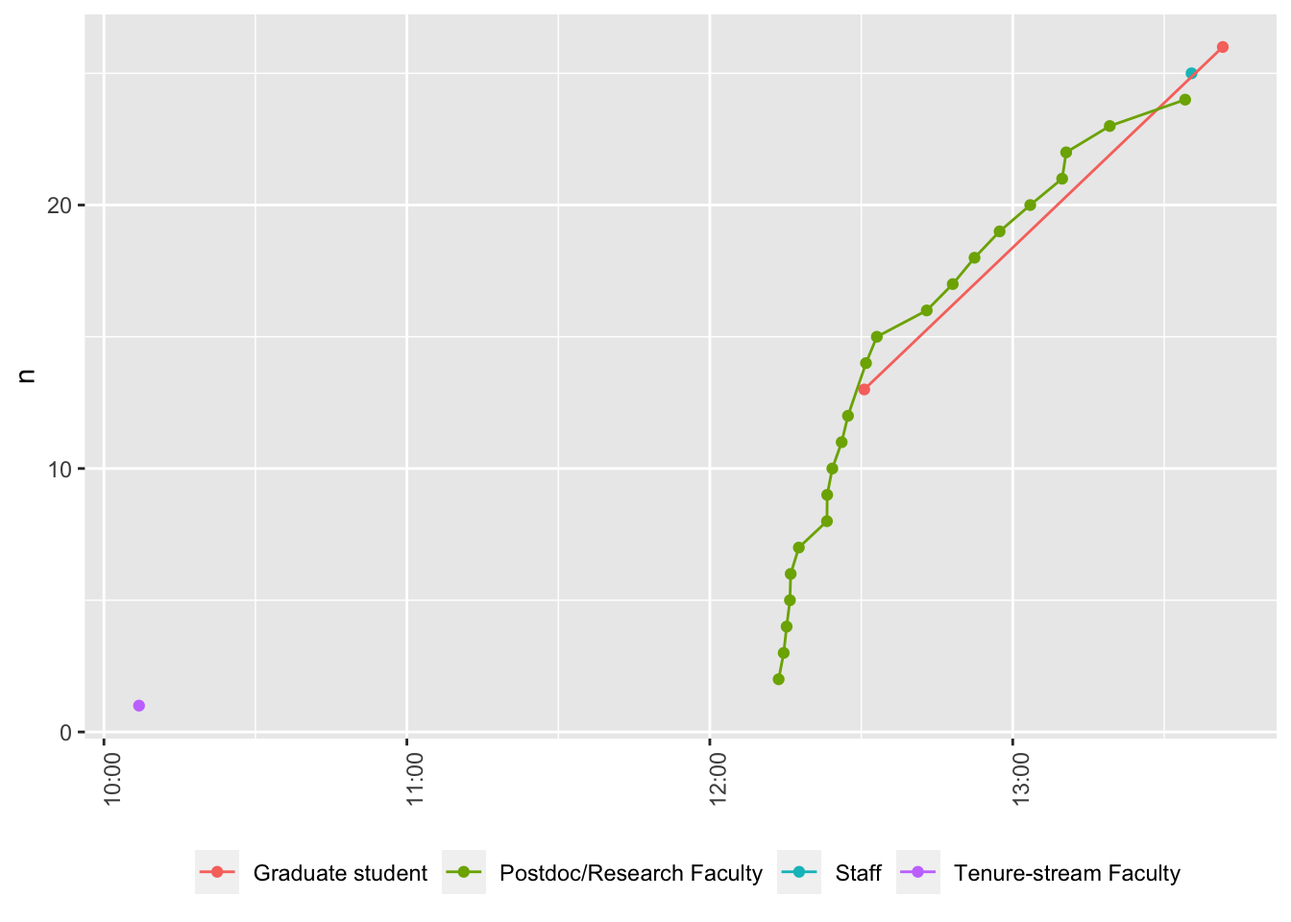
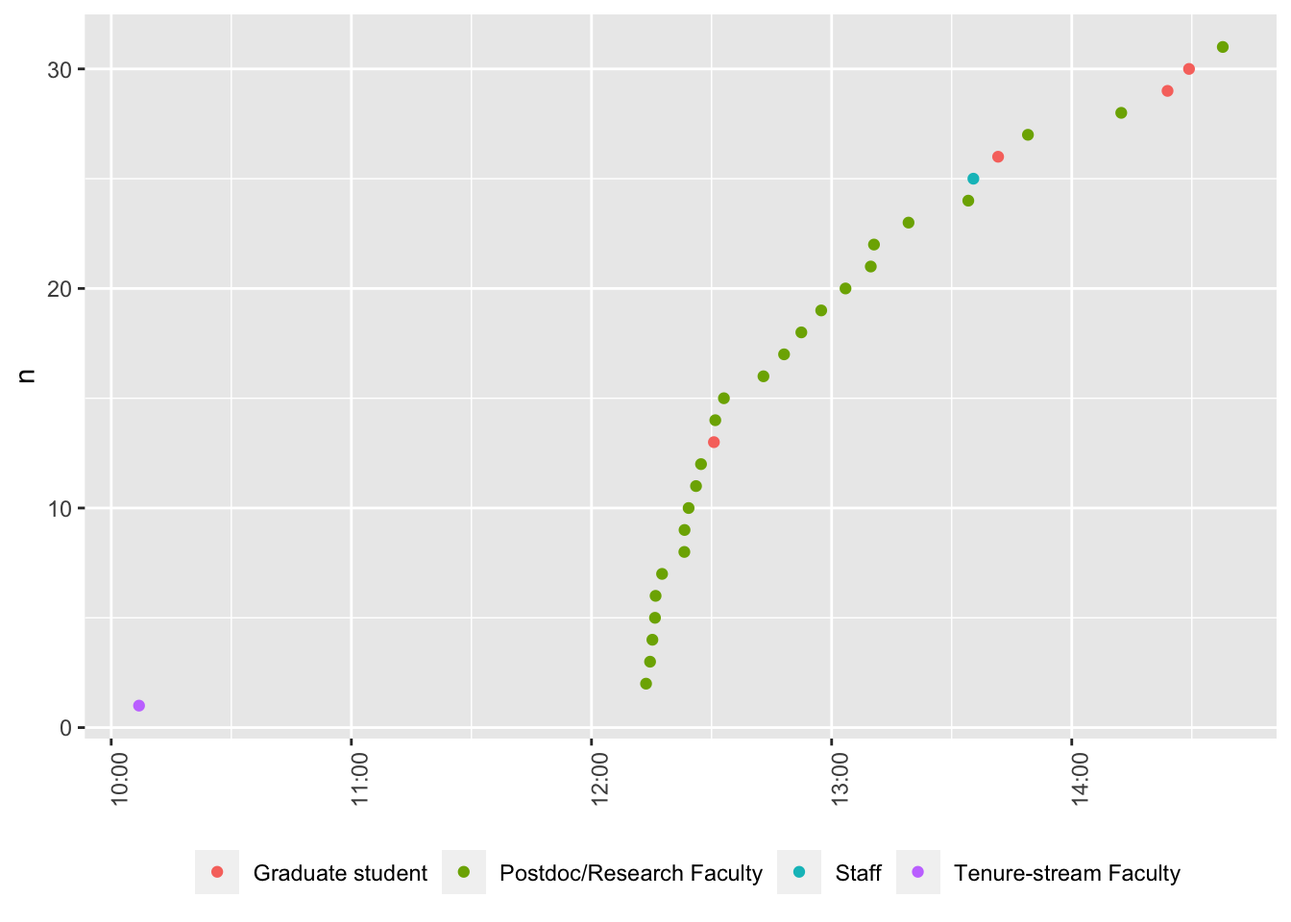
Clean unit and add college.

diff --git a/docs/resources.html b/docs/resources.html
@@ -179,9 +179,6 @@ pre > code.sourceCode > span > a:first-child::before { text-decoration: underlin
 <span id="cb1-19"><a href="#cb1-19" aria-hidden="true" tabindex="-1"></a>  <span class="fu">message</span>(<span class="st">"Using stored data."</span>)</span>
 <span id="cb1-20"><a href="#cb1-20" aria-hidden="true" tabindex="-1"></a>}</span></code><button title="Copy to Clipboard" class="code-copy-button"><i class="bi"></i></button></pre></div>
 <div class="cell-output cell-output-stderr">
-<pre><code>Auto-refreshing stale OAuth token.</code></pre>
-</div>
-<div class="cell-output cell-output-stderr">
 <pre><code>File downloaded:</code></pre>
 </div>
 <div class="cell-output cell-output-stderr">
@@ -199,38 +196,101 @@ pre > code.sourceCode > span > a:first-child::before { text-decoration: underlin
 </div>
 </div>
 <div class="cell">
-<div class="sourceCode cell-code" id="cb8"><pre class="sourceCode r code-with-copy"><code class="sourceCode r"><span id="cb8-1"><a href="#cb8-1" aria-hidden="true" tabindex="-1"></a>registrations <span class="ot">&lt;-</span></span>
-<span id="cb8-2"><a href="#cb8-2" aria-hidden="true" tabindex="-1"></a>  readr<span class="sc">::</span><span class="fu">read_csv</span>(<span class="st">"csv/data-mgmt-wksp.csv"</span>, <span class="at">show_col_types =</span> <span class="cn">FALSE</span>)</span>
-<span id="cb8-3"><a href="#cb8-3" aria-hidden="true" tabindex="-1"></a>registrations_clean <span class="ot">&lt;-</span> registrations <span class="sc">|&gt;</span></span>
-<span id="cb8-4"><a href="#cb8-4" aria-hidden="true" tabindex="-1"></a>  dplyr<span class="sc">::</span><span class="fu">rename</span>(</span>
-<span id="cb8-5"><a href="#cb8-5" aria-hidden="true" tabindex="-1"></a>    <span class="at">timestamp =</span> <span class="st">"Timestamp"</span>,</span>
-<span id="cb8-6"><a href="#cb8-6" aria-hidden="true" tabindex="-1"></a>    <span class="at">email =</span> <span class="st">'Email Address'</span>,</span>
-<span id="cb8-7"><a href="#cb8-7" aria-hidden="true" tabindex="-1"></a>    <span class="at">attend =</span> <span class="st">"Will you attend the workshop on Wednesday, March 27, 2024?"</span>,</span>
-<span id="cb8-8"><a href="#cb8-8" aria-hidden="true" tabindex="-1"></a>    <span class="at">name =</span> <span class="st">"What is your name?"</span>,</span>
-<span id="cb8-9"><a href="#cb8-9" aria-hidden="true" tabindex="-1"></a>    <span class="at">unit =</span> <span class="st">"What is your department or unit?"</span>,</span>
-<span id="cb8-10"><a href="#cb8-10" aria-hidden="true" tabindex="-1"></a>    <span class="at">position =</span> <span class="st">"What is your current position?"</span>,</span>
-<span id="cb8-11"><a href="#cb8-11" aria-hidden="true" tabindex="-1"></a>    <span class="at">have_case_study =</span> <span class="st">"Do you have a project or dataset that you would like to have considered for a hands-on case study?"</span>,</span>
-<span id="cb8-12"><a href="#cb8-12" aria-hidden="true" tabindex="-1"></a>    <span class="at">case_study_details =</span> <span class="st">"If yes, in a sentence or two, please describe your project or dataset."</span>,</span>
-<span id="cb8-13"><a href="#cb8-13" aria-hidden="true" tabindex="-1"></a>    <span class="at">comments =</span> <span class="st">"Any comments?"</span></span>
-<span id="cb8-14"><a href="#cb8-14" aria-hidden="true" tabindex="-1"></a>  )</span></code><button title="Copy to Clipboard" class="code-copy-button"><i class="bi"></i></button></pre></div>
+<div class="sourceCode cell-code" id="cb7"><pre class="sourceCode r code-with-copy"><code class="sourceCode r"><span id="cb7-1"><a href="#cb7-1" aria-hidden="true" tabindex="-1"></a>registrations <span class="ot">&lt;-</span></span>
+<span id="cb7-2"><a href="#cb7-2" aria-hidden="true" tabindex="-1"></a>  readr<span class="sc">::</span><span class="fu">read_csv</span>(<span class="st">"csv/data-mgmt-wksp.csv"</span>, <span class="at">show_col_types =</span> <span class="cn">FALSE</span>)</span>
+<span id="cb7-3"><a href="#cb7-3" aria-hidden="true" tabindex="-1"></a></span>
+<span id="cb7-4"><a href="#cb7-4" aria-hidden="true" tabindex="-1"></a>registrations_clean <span class="ot">&lt;-</span> registrations <span class="sc">|&gt;</span></span>
+<span id="cb7-5"><a href="#cb7-5" aria-hidden="true" tabindex="-1"></a>  dplyr<span class="sc">::</span><span class="fu">rename</span>(</span>
+<span id="cb7-6"><a href="#cb7-6" aria-hidden="true" tabindex="-1"></a>    <span class="at">timestamp =</span> <span class="st">"Timestamp"</span>,</span>
+<span id="cb7-7"><a href="#cb7-7" aria-hidden="true" tabindex="-1"></a>    <span class="at">email =</span> <span class="st">'Email Address'</span>,</span>
+<span id="cb7-8"><a href="#cb7-8" aria-hidden="true" tabindex="-1"></a>    <span class="at">attend =</span> <span class="st">"Will you attend the workshop on Wednesday, March 27, 2024?"</span>,</span>
+<span id="cb7-9"><a href="#cb7-9" aria-hidden="true" tabindex="-1"></a>    <span class="at">name =</span> <span class="st">"What is your name?"</span>,</span>
+<span id="cb7-10"><a href="#cb7-10" aria-hidden="true" tabindex="-1"></a>    <span class="at">unit =</span> <span class="st">"What is your department or unit?"</span>,</span>
+<span id="cb7-11"><a href="#cb7-11" aria-hidden="true" tabindex="-1"></a>    <span class="at">position =</span> <span class="st">"What is your current position?"</span>,</span>
+<span id="cb7-12"><a href="#cb7-12" aria-hidden="true" tabindex="-1"></a>    <span class="at">have_case_study =</span> <span class="st">"Do you have a project or dataset that you would like to have considered for a hands-on case study?"</span>,</span>
+<span id="cb7-13"><a href="#cb7-13" aria-hidden="true" tabindex="-1"></a>    <span class="at">case_study_details =</span> <span class="st">"If yes, in a sentence or two, please describe your project or dataset."</span>,</span>
+<span id="cb7-14"><a href="#cb7-14" aria-hidden="true" tabindex="-1"></a>    <span class="at">comments =</span> <span class="st">"Any comments?"</span></span>
+<span id="cb7-15"><a href="#cb7-15" aria-hidden="true" tabindex="-1"></a>  ) <span class="sc">|&gt;</span></span>
+<span id="cb7-16"><a href="#cb7-16" aria-hidden="true" tabindex="-1"></a>  <span class="co"># Remove duplicate rows</span></span>
+<span id="cb7-17"><a href="#cb7-17" aria-hidden="true" tabindex="-1"></a>  dplyr<span class="sc">::</span><span class="fu">distinct</span>() <span class="sc">|&gt;</span></span>
+<span id="cb7-18"><a href="#cb7-18" aria-hidden="true" tabindex="-1"></a>  <span class="co"># Convert timestamp into proper dates</span></span>
+<span id="cb7-19"><a href="#cb7-19" aria-hidden="true" tabindex="-1"></a>  dplyr<span class="sc">::</span><span class="fu">mutate</span>(<span class="at">timestamp =</span> lubridate<span class="sc">::</span><span class="fu">mdy_hms</span>(timestamp,</span>
+<span id="cb7-20"><a href="#cb7-20" aria-hidden="true" tabindex="-1"></a>                                               <span class="at">tz =</span> <span class="st">"America/New_York"</span>)) <span class="sc">|&gt;</span></span>
+<span id="cb7-21"><a href="#cb7-21" aria-hidden="true" tabindex="-1"></a>  <span class="co"># Normalize names</span></span>
+<span id="cb7-22"><a href="#cb7-22" aria-hidden="true" tabindex="-1"></a>  dplyr<span class="sc">::</span><span class="fu">mutate</span>(</span>
+<span id="cb7-23"><a href="#cb7-23" aria-hidden="true" tabindex="-1"></a>    <span class="at">unit =</span> dplyr<span class="sc">::</span><span class="fu">recode</span>(</span>
+<span id="cb7-24"><a href="#cb7-24" aria-hidden="true" tabindex="-1"></a>      unit,</span>
+<span id="cb7-25"><a href="#cb7-25" aria-hidden="true" tabindex="-1"></a>      <span class="st">`</span><span class="at">ESM-Ecosystem Science and Mgmt</span><span class="st">`</span> <span class="ot">=</span> <span class="st">"Ecosystem Science &amp; Mgmt"</span>,</span>
+<span id="cb7-26"><a href="#cb7-26" aria-hidden="true" tabindex="-1"></a>      <span class="st">`</span><span class="at">Earth and Environmental Systems Institute</span><span class="st">`</span> <span class="ot">=</span> <span class="st">"Earth &amp; Environmental Systems Institute"</span>,</span>
+<span id="cb7-27"><a href="#cb7-27" aria-hidden="true" tabindex="-1"></a>      <span class="st">`</span><span class="at">Earth and Environmental Systems Institute</span><span class="st">`</span> <span class="ot">=</span> <span class="st">"Earth &amp; Environmental Systems Institute"</span>,</span>
+<span id="cb7-28"><a href="#cb7-28" aria-hidden="true" tabindex="-1"></a>      <span class="st">`</span><span class="at">FOOD SCIENCE</span><span class="st">`</span> <span class="ot">=</span> <span class="st">"Food Science"</span>,</span>
+<span id="cb7-29"><a href="#cb7-29" aria-hidden="true" tabindex="-1"></a>      <span class="st">`</span><span class="at">Earth and Mineral Sciences, Energy Institute</span><span class="st">`</span> <span class="ot">=</span> <span class="st">"Energy Institute"</span>,</span>
+<span id="cb7-30"><a href="#cb7-30" aria-hidden="true" tabindex="-1"></a>      <span class="st">`</span><span class="at">Center for Healthy Aging / HHD</span><span class="st">`</span> <span class="ot">=</span> <span class="st">"Center for Healthy Aging"</span>,</span>
+<span id="cb7-31"><a href="#cb7-31" aria-hidden="true" tabindex="-1"></a>      <span class="st">`</span><span class="at">BMB</span><span class="st">`</span> <span class="ot">=</span> <span class="st">"Biochemistry &amp; Molecular Biology"</span></span>
+<span id="cb7-32"><a href="#cb7-32" aria-hidden="true" tabindex="-1"></a>    )</span>
+<span id="cb7-33"><a href="#cb7-33" aria-hidden="true" tabindex="-1"></a>  ) <span class="sc">|&gt;</span></span>
+<span id="cb7-34"><a href="#cb7-34" aria-hidden="true" tabindex="-1"></a>  <span class="co"># Add college</span></span>
+<span id="cb7-35"><a href="#cb7-35" aria-hidden="true" tabindex="-1"></a>  dplyr<span class="sc">::</span><span class="fu">mutate</span>(</span>
+<span id="cb7-36"><a href="#cb7-36" aria-hidden="true" tabindex="-1"></a>    <span class="at">college =</span> dplyr<span class="sc">::</span><span class="fu">case_match</span>(</span>
+<span id="cb7-37"><a href="#cb7-37" aria-hidden="true" tabindex="-1"></a>      unit,</span>
+<span id="cb7-38"><a href="#cb7-38" aria-hidden="true" tabindex="-1"></a>      <span class="st">"Statistics"</span> <span class="sc">~</span> <span class="st">"ECoS"</span>,</span>
+<span id="cb7-39"><a href="#cb7-39" aria-hidden="true" tabindex="-1"></a>      <span class="st">"Biology"</span> <span class="sc">~</span> <span class="st">"ECoS"</span>,</span>
+<span id="cb7-40"><a href="#cb7-40" aria-hidden="true" tabindex="-1"></a>      <span class="st">"Biochemistry &amp; Molecular Biology"</span> <span class="sc">~</span> <span class="st">"ECoS"</span>,</span>
+<span id="cb7-41"><a href="#cb7-41" aria-hidden="true" tabindex="-1"></a>      <span class="st">"Physics"</span> <span class="sc">~</span> <span class="st">"ECoS"</span>,</span>
+<span id="cb7-42"><a href="#cb7-42" aria-hidden="true" tabindex="-1"></a>      <span class="st">"Chemistry"</span> <span class="sc">~</span> <span class="st">"ECoS"</span>,</span>
+<span id="cb7-43"><a href="#cb7-43" aria-hidden="true" tabindex="-1"></a>      <span class="st">"Psychology"</span> <span class="sc">~</span> <span class="st">"CLA"</span>,</span>
+<span id="cb7-44"><a href="#cb7-44" aria-hidden="true" tabindex="-1"></a>      <span class="st">"Spanish, Italian, &amp; Portuguese"</span> <span class="sc">~</span> <span class="st">"CLA"</span>,</span>
+<span id="cb7-45"><a href="#cb7-45" aria-hidden="true" tabindex="-1"></a>      <span class="st">"Research Informatics and Publishing"</span> <span class="sc">~</span> <span class="st">"Libraries"</span>,</span>
+<span id="cb7-46"><a href="#cb7-46" aria-hidden="true" tabindex="-1"></a>      <span class="st">"Political Science"</span> <span class="sc">~</span> <span class="st">"CLA"</span>,</span>
+<span id="cb7-47"><a href="#cb7-47" aria-hidden="true" tabindex="-1"></a>      <span class="st">"Applied Linguistics"</span> <span class="sc">~</span> <span class="st">"CLA"</span>,</span>
+<span id="cb7-48"><a href="#cb7-48" aria-hidden="true" tabindex="-1"></a>      <span class="st">"Global Languages &amp; Literatures"</span> <span class="sc">~</span> <span class="st">"CLA"</span>,</span>
+<span id="cb7-49"><a href="#cb7-49" aria-hidden="true" tabindex="-1"></a>      <span class="st">"Sociology"</span> <span class="sc">~</span> <span class="st">"CLA"</span>,</span>
+<span id="cb7-50"><a href="#cb7-50" aria-hidden="true" tabindex="-1"></a>      <span class="st">"English"</span> <span class="sc">~</span> <span class="st">"CLA"</span>,</span>
+<span id="cb7-51"><a href="#cb7-51" aria-hidden="true" tabindex="-1"></a>      <span class="st">"C-SoDA"</span> <span class="sc">~</span> <span class="st">"CLA"</span>,</span>
+<span id="cb7-52"><a href="#cb7-52" aria-hidden="true" tabindex="-1"></a>      <span class="st">"Office of Digital Pedagogies and Initiatives"</span> <span class="sc">~</span> <span class="st">"CLA"</span>,</span>
+<span id="cb7-53"><a href="#cb7-53" aria-hidden="true" tabindex="-1"></a>      <span class="st">"Asian Studies"</span> <span class="sc">~</span> <span class="st">"CLA"</span>,</span>
+<span id="cb7-54"><a href="#cb7-54" aria-hidden="true" tabindex="-1"></a>      <span class="st">"IST"</span> <span class="sc">~</span> <span class="st">"IST"</span>,</span>
+<span id="cb7-55"><a href="#cb7-55" aria-hidden="true" tabindex="-1"></a>      <span class="st">"Anthropology"</span> <span class="sc">~</span> <span class="st">"CLA"</span>,</span>
+<span id="cb7-56"><a href="#cb7-56" aria-hidden="true" tabindex="-1"></a>      <span class="st">"Chemical Engineering"</span> <span class="sc">~</span> <span class="st">"Engineering"</span>,</span>
+<span id="cb7-57"><a href="#cb7-57" aria-hidden="true" tabindex="-1"></a>      <span class="st">"Civil and Environmental Engineering"</span> <span class="sc">~</span> <span class="st">"Engineering"</span>,</span>
+<span id="cb7-58"><a href="#cb7-58" aria-hidden="true" tabindex="-1"></a>      <span class="st">"Material Science and Engineering"</span> <span class="sc">~</span> <span class="st">"Engineering"</span>,</span>
+<span id="cb7-59"><a href="#cb7-59" aria-hidden="true" tabindex="-1"></a>      <span class="st">"Engineering Science &amp; Mechanics"</span> <span class="sc">~</span> <span class="st">"Engineering"</span>,</span>
+<span id="cb7-60"><a href="#cb7-60" aria-hidden="true" tabindex="-1"></a>      <span class="st">"Biomedical Engineering"</span> <span class="sc">~</span> <span class="st">"Engineering"</span>,</span>
+<span id="cb7-61"><a href="#cb7-61" aria-hidden="true" tabindex="-1"></a>      <span class="st">"Nutritional Sciences"</span> <span class="sc">~</span> <span class="st">"HHD"</span>,</span>
+<span id="cb7-62"><a href="#cb7-62" aria-hidden="true" tabindex="-1"></a>      <span class="st">"HDFS"</span> <span class="sc">~</span> <span class="st">"HHD"</span>,</span>
+<span id="cb7-63"><a href="#cb7-63" aria-hidden="true" tabindex="-1"></a>      <span class="st">"Kinesiology"</span> <span class="sc">~</span> <span class="st">"HHD"</span>,</span>
+<span id="cb7-64"><a href="#cb7-64" aria-hidden="true" tabindex="-1"></a>      <span class="st">"Recreation, Park, &amp; Tourism Management"</span> <span class="sc">~</span> <span class="st">"HHD"</span>,</span>
+<span id="cb7-65"><a href="#cb7-65" aria-hidden="true" tabindex="-1"></a>      <span class="st">"Bellisario College of Communication"</span> <span class="sc">~</span> <span class="st">"Comm"</span>,</span>
+<span id="cb7-66"><a href="#cb7-66" aria-hidden="true" tabindex="-1"></a>      <span class="st">"Marketing"</span> <span class="sc">~</span> <span class="st">"Smeal"</span>,</span>
+<span id="cb7-67"><a href="#cb7-67" aria-hidden="true" tabindex="-1"></a>      <span class="st">"Food Science"</span> <span class="sc">~</span> <span class="st">"Ag"</span>,</span>
+<span id="cb7-68"><a href="#cb7-68" aria-hidden="true" tabindex="-1"></a>      <span class="st">"Ecosystem Science &amp; Mgmt"</span> <span class="sc">~</span> <span class="st">"Ag"</span>,</span>
+<span id="cb7-69"><a href="#cb7-69" aria-hidden="true" tabindex="-1"></a>      <span class="st">"Entomology"</span> <span class="sc">~</span> <span class="st">"Ag"</span>,</span>
+<span id="cb7-70"><a href="#cb7-70" aria-hidden="true" tabindex="-1"></a>      <span class="st">"Neuroscience"</span> <span class="sc">~</span> <span class="st">"Med"</span>,</span>
+<span id="cb7-71"><a href="#cb7-71" aria-hidden="true" tabindex="-1"></a>      <span class="st">"College of Human and Health Development"</span> <span class="sc">~</span> <span class="st">"HHD"</span>,</span>
+<span id="cb7-72"><a href="#cb7-72" aria-hidden="true" tabindex="-1"></a>      <span class="st">"Center for Healthy Aging"</span> <span class="sc">~</span> <span class="st">"HHD"</span>,</span>
+<span id="cb7-73"><a href="#cb7-73" aria-hidden="true" tabindex="-1"></a>      <span class="st">"Earth &amp; Environmental Systems Institute"</span> <span class="sc">~</span> <span class="st">"EMS"</span>,</span>
+<span id="cb7-74"><a href="#cb7-74" aria-hidden="true" tabindex="-1"></a>      <span class="st">"Energy Institute"</span> <span class="sc">~</span> <span class="st">"EMS"</span>,</span>
+<span id="cb7-75"><a href="#cb7-75" aria-hidden="true" tabindex="-1"></a>      <span class="st">"Nursing"</span> <span class="sc">~</span> <span class="st">"Nursing"</span></span>
+<span id="cb7-76"><a href="#cb7-76" aria-hidden="true" tabindex="-1"></a>    ),</span>
+<span id="cb7-77"><a href="#cb7-77" aria-hidden="true" tabindex="-1"></a>    <span class="at">.default =</span> <span class="st">"Unknown"</span>,</span>
+<span id="cb7-78"><a href="#cb7-78" aria-hidden="true" tabindex="-1"></a>    <span class="at">.missing =</span> <span class="st">"Unknown"</span></span>
+<span id="cb7-79"><a href="#cb7-79" aria-hidden="true" tabindex="-1"></a>  )</span></code><button title="Copy to Clipboard" class="code-copy-button"><i class="bi"></i></button></pre></div>
 </div>
 <section id="time-series" class="level3">
 <h3 class="anchored" data-anchor-id="time-series">Time series</h3>
 <div class="cell">
-<div class="sourceCode cell-code" id="cb9"><pre class="sourceCode r code-with-copy"><code class="sourceCode r"><span id="cb9-1"><a href="#cb9-1" aria-hidden="true" tabindex="-1"></a><span class="fu">library</span>(ggplot2)</span>
-<span id="cb9-2"><a href="#cb9-2" aria-hidden="true" tabindex="-1"></a></span>
-<span id="cb9-3"><a href="#cb9-3" aria-hidden="true" tabindex="-1"></a>registrations_clean <span class="sc">|&gt;</span></span>
-<span id="cb9-4"><a href="#cb9-4" aria-hidden="true" tabindex="-1"></a>  dplyr<span class="sc">::</span><span class="fu">mutate</span>(<span class="at">timestamp =</span> lubridate<span class="sc">::</span><span class="fu">mdy_hms</span>(timestamp, </span>
-<span id="cb9-5"><a href="#cb9-5" aria-hidden="true" tabindex="-1"></a>                                               <span class="at">tz =</span> <span class="st">"America/New_York"</span>)) <span class="sc">|&gt;</span></span>
-<span id="cb9-6"><a href="#cb9-6" aria-hidden="true" tabindex="-1"></a>  dplyr<span class="sc">::</span><span class="fu">arrange</span>(timestamp) <span class="sc">|&gt;</span></span>
-<span id="cb9-7"><a href="#cb9-7" aria-hidden="true" tabindex="-1"></a>  dplyr<span class="sc">::</span><span class="fu">mutate</span>(<span class="at">resp_index =</span> <span class="fu">seq_along</span>(timestamp)) <span class="sc">|&gt;</span></span>
-<span id="cb9-8"><a href="#cb9-8" aria-hidden="true" tabindex="-1"></a>  <span class="fu">ggplot</span>() <span class="sc">+</span></span>
-<span id="cb9-9"><a href="#cb9-9" aria-hidden="true" tabindex="-1"></a>  <span class="fu">aes</span>(<span class="at">x =</span> timestamp, <span class="at">y =</span> resp_index, <span class="at">color =</span> position) <span class="sc">+</span></span>
-<span id="cb9-10"><a href="#cb9-10" aria-hidden="true" tabindex="-1"></a>  <span class="fu">geom_point</span>() <span class="sc">+</span></span>
-<span id="cb9-11"><a href="#cb9-11" aria-hidden="true" tabindex="-1"></a>  <span class="fu">geom_line</span>() <span class="sc">+</span></span>
-<span id="cb9-12"><a href="#cb9-12" aria-hidden="true" tabindex="-1"></a>  <span class="fu">theme</span>(<span class="at">axis.text.x =</span> <span class="fu">element_text</span>(<span class="at">angle =</span> <span class="dv">90</span>)) <span class="sc">+</span></span>
-<span id="cb9-13"><a href="#cb9-13" aria-hidden="true" tabindex="-1"></a>  <span class="fu">labs</span>(<span class="at">x =</span> <span class="cn">NULL</span>, <span class="at">y =</span> <span class="st">'n'</span>) <span class="sc">+</span></span>
-<span id="cb9-14"><a href="#cb9-14" aria-hidden="true" tabindex="-1"></a>  <span class="fu">theme</span>(<span class="at">legend.position =</span> <span class="st">"bottom"</span>, <span class="at">legend.title =</span> <span class="fu">element_blank</span>())</span></code><button title="Copy to Clipboard" class="code-copy-button"><i class="bi"></i></button></pre></div>
+<div class="sourceCode cell-code" id="cb8"><pre class="sourceCode r code-with-copy"><code class="sourceCode r"><span id="cb8-1"><a href="#cb8-1" aria-hidden="true" tabindex="-1"></a><span class="fu">library</span>(ggplot2)</span>
+<span id="cb8-2"><a href="#cb8-2" aria-hidden="true" tabindex="-1"></a></span>
+<span id="cb8-3"><a href="#cb8-3" aria-hidden="true" tabindex="-1"></a>registrations_clean <span class="sc">|&gt;</span></span>
+<span id="cb8-4"><a href="#cb8-4" aria-hidden="true" tabindex="-1"></a>  dplyr<span class="sc">::</span><span class="fu">arrange</span>(timestamp) <span class="sc">|&gt;</span></span>
+<span id="cb8-5"><a href="#cb8-5" aria-hidden="true" tabindex="-1"></a>  dplyr<span class="sc">::</span><span class="fu">mutate</span>(<span class="at">resp_index =</span> <span class="fu">seq_along</span>(timestamp)) <span class="sc">|&gt;</span></span>
+<span id="cb8-6"><a href="#cb8-6" aria-hidden="true" tabindex="-1"></a>  <span class="fu">ggplot</span>() <span class="sc">+</span></span>
+<span id="cb8-7"><a href="#cb8-7" aria-hidden="true" tabindex="-1"></a>  <span class="fu">aes</span>(<span class="at">x =</span> timestamp, <span class="at">y =</span> resp_index, <span class="at">color =</span> position) <span class="sc">+</span></span>
+<span id="cb8-8"><a href="#cb8-8" aria-hidden="true" tabindex="-1"></a>  <span class="fu">geom_point</span>() <span class="sc">+</span></span>
+<span id="cb8-9"><a href="#cb8-9" aria-hidden="true" tabindex="-1"></a>  <span class="co"># geom_line(group = 1) +</span></span>
+<span id="cb8-10"><a href="#cb8-10" aria-hidden="true" tabindex="-1"></a>  <span class="fu">theme</span>(<span class="at">axis.text.x =</span> <span class="fu">element_text</span>(<span class="at">angle =</span> <span class="dv">90</span>)) <span class="sc">+</span></span>
+<span id="cb8-11"><a href="#cb8-11" aria-hidden="true" tabindex="-1"></a>  <span class="fu">labs</span>(<span class="at">x =</span> <span class="cn">NULL</span>, <span class="at">y =</span> <span class="st">'n'</span>) <span class="sc">+</span></span>
+<span id="cb8-12"><a href="#cb8-12" aria-hidden="true" tabindex="-1"></a>  <span class="fu">theme</span>(<span class="at">legend.position =</span> <span class="st">"bottom"</span>, <span class="at">legend.title =</span> <span class="fu">element_blank</span>())</span></code><button title="Copy to Clipboard" class="code-copy-button"><i class="bi"></i></button></pre></div>
 <div class="cell-output-display">
 <div id="fig-registration-time-series" class="quarto-figure quarto-figure-center anchored">
 <figure class="figure">
@@ -243,29 +303,38 @@ pre > code.sourceCode > span > a:first-child::before { text-decoration: underlin
 </section>
 <section id="unit" class="level3">
 <h3 class="anchored" data-anchor-id="unit">Unit</h3>
-<div class="callout callout-style-default callout-note callout-titled">
-<div class="callout-header d-flex align-content-center">
-<div class="callout-icon-container">
-<i class="callout-icon"></i>
+<div class="cell">
+<div class="sourceCode cell-code" id="cb9"><pre class="sourceCode r code-with-copy"><code class="sourceCode r"><span id="cb9-1"><a href="#cb9-1" aria-hidden="true" tabindex="-1"></a>registrations_clean <span class="sc">|&gt;</span></span>
+<span id="cb9-2"><a href="#cb9-2" aria-hidden="true" tabindex="-1"></a>  <span class="fu">ggplot</span>() <span class="sc">+</span></span>
+<span id="cb9-3"><a href="#cb9-3" aria-hidden="true" tabindex="-1"></a>  <span class="fu">aes</span>(<span class="at">x =</span> unit, <span class="at">fill =</span> unit, <span class="at">color =</span> unit) <span class="sc">+</span></span>
+<span id="cb9-4"><a href="#cb9-4" aria-hidden="true" tabindex="-1"></a>  <span class="fu">geom_bar</span>() <span class="sc">+</span></span>
+<span id="cb9-5"><a href="#cb9-5" aria-hidden="true" tabindex="-1"></a>  <span class="fu">theme</span>(<span class="at">axis.text.x =</span> <span class="fu">element_blank</span>()) <span class="sc">+</span></span>
+<span id="cb9-6"><a href="#cb9-6" aria-hidden="true" tabindex="-1"></a>  <span class="fu">theme</span>(<span class="at">legend.position =</span> <span class="st">"bottom"</span>, <span class="at">legend.title =</span> <span class="fu">element_blank</span>())</span></code><button title="Copy to Clipboard" class="code-copy-button"><i class="bi"></i></button></pre></div>
+<div class="cell-output-display">
+<p><img src="resources_files/figure-html/unnamed-chunk-3-1.png" class="img-fluid" width="672"></p>
 </div>
-<div class="callout-title-container flex-fill">
-Note
 </div>
-</div>
-<div class="callout-body-container callout-body">
-<p>Need to clean unit variables before plotting.</p>
+<div class="cell">
+<div class="sourceCode cell-code" id="cb10"><pre class="sourceCode r code-with-copy"><code class="sourceCode r"><span id="cb10-1"><a href="#cb10-1" aria-hidden="true" tabindex="-1"></a>registrations_clean <span class="sc">|&gt;</span></span>
+<span id="cb10-2"><a href="#cb10-2" aria-hidden="true" tabindex="-1"></a>  <span class="fu">ggplot</span>() <span class="sc">+</span></span>
+<span id="cb10-3"><a href="#cb10-3" aria-hidden="true" tabindex="-1"></a>  <span class="fu">aes</span>(<span class="at">x =</span> college, <span class="at">fill =</span> college, <span class="at">color =</span> college) <span class="sc">+</span></span>
+<span id="cb10-4"><a href="#cb10-4" aria-hidden="true" tabindex="-1"></a>  <span class="fu">geom_bar</span>() <span class="sc">+</span></span>
+<span id="cb10-5"><a href="#cb10-5" aria-hidden="true" tabindex="-1"></a>  <span class="fu">theme</span>(<span class="at">axis.text.x =</span> <span class="fu">element_blank</span>()) <span class="sc">+</span></span>
+<span id="cb10-6"><a href="#cb10-6" aria-hidden="true" tabindex="-1"></a>  <span class="fu">theme</span>(<span class="at">legend.position =</span> <span class="st">"bottom"</span>, <span class="at">legend.title =</span> <span class="fu">element_blank</span>())</span></code><button title="Copy to Clipboard" class="code-copy-button"><i class="bi"></i></button></pre></div>
+<div class="cell-output-display">
+<p><img src="resources_files/figure-html/unnamed-chunk-4-1.png" class="img-fluid" width="672"></p>
 </div>
 </div>
 </section>
 <section id="position" class="level3">
 <h3 class="anchored" data-anchor-id="position">Position</h3>
 <div class="cell">
-<div class="sourceCode cell-code" id="cb10"><pre class="sourceCode r code-with-copy"><code class="sourceCode r"><span id="cb10-1"><a href="#cb10-1" aria-hidden="true" tabindex="-1"></a>registrations_clean <span class="sc">|&gt;</span></span>
-<span id="cb10-2"><a href="#cb10-2" aria-hidden="true" tabindex="-1"></a>  <span class="fu">ggplot</span>() <span class="sc">+</span></span>
-<span id="cb10-3"><a href="#cb10-3" aria-hidden="true" tabindex="-1"></a>  <span class="fu">aes</span>(<span class="at">x =</span> position, <span class="at">fill =</span> position) <span class="sc">+</span></span>
-<span id="cb10-4"><a href="#cb10-4" aria-hidden="true" tabindex="-1"></a>  <span class="fu">geom_bar</span>() <span class="sc">+</span></span>
-<span id="cb10-5"><a href="#cb10-5" aria-hidden="true" tabindex="-1"></a>  <span class="fu">theme</span>(<span class="at">axis.text.x =</span> <span class="fu">element_blank</span>()) <span class="sc">+</span></span>
-<span id="cb10-6"><a href="#cb10-6" aria-hidden="true" tabindex="-1"></a>  <span class="fu">theme</span>(<span class="at">legend.position =</span> <span class="st">"bottom"</span>, <span class="at">legend.title =</span> <span class="fu">element_blank</span>())</span></code><button title="Copy to Clipboard" class="code-copy-button"><i class="bi"></i></button></pre></div>
+<div class="sourceCode cell-code" id="cb11"><pre class="sourceCode r code-with-copy"><code class="sourceCode r"><span id="cb11-1"><a href="#cb11-1" aria-hidden="true" tabindex="-1"></a>registrations_clean <span class="sc">|&gt;</span></span>
+<span id="cb11-2"><a href="#cb11-2" aria-hidden="true" tabindex="-1"></a>  <span class="fu">ggplot</span>() <span class="sc">+</span></span>
+<span id="cb11-3"><a href="#cb11-3" aria-hidden="true" tabindex="-1"></a>  <span class="fu">aes</span>(<span class="at">x =</span> position, <span class="at">fill =</span> position) <span class="sc">+</span></span>
+<span id="cb11-4"><a href="#cb11-4" aria-hidden="true" tabindex="-1"></a>  <span class="fu">geom_bar</span>() <span class="sc">+</span></span>
+<span id="cb11-5"><a href="#cb11-5" aria-hidden="true" tabindex="-1"></a>  <span class="fu">theme</span>(<span class="at">axis.text.x =</span> <span class="fu">element_blank</span>()) <span class="sc">+</span></span>
+<span id="cb11-6"><a href="#cb11-6" aria-hidden="true" tabindex="-1"></a>  <span class="fu">theme</span>(<span class="at">legend.position =</span> <span class="st">"bottom"</span>, <span class="at">legend.title =</span> <span class="fu">element_blank</span>())</span></code><button title="Copy to Clipboard" class="code-copy-button"><i class="bi"></i></button></pre></div>
 <div class="cell-output-display">
 <div id="fig-registrations-by-position" class="quarto-figure quarto-figure-center anchored">
 <figure class="figure">
@@ -279,10 +348,10 @@ Note
 <section id="case-study" class="level3">
 <h3 class="anchored" data-anchor-id="case-study">Case study</h3>
 <div class="cell">
-<div class="sourceCode cell-code" id="cb11"><pre class="sourceCode r code-with-copy"><code class="sourceCode r"><span id="cb11-1"><a href="#cb11-1" aria-hidden="true" tabindex="-1"></a>registrations_clean <span class="sc">|&gt;</span></span>
-<span id="cb11-2"><a href="#cb11-2" aria-hidden="true" tabindex="-1"></a>  <span class="fu">ggplot</span>() <span class="sc">+</span></span>
-<span id="cb11-3"><a href="#cb11-3" aria-hidden="true" tabindex="-1"></a>  <span class="fu">aes</span>(<span class="at">x =</span> have_case_study) <span class="sc">+</span></span>
-<span id="cb11-4"><a href="#cb11-4" aria-hidden="true" tabindex="-1"></a>  <span class="fu">geom_bar</span>()</span></code><button title="Copy to Clipboard" class="code-copy-button"><i class="bi"></i></button></pre></div>
+<div class="sourceCode cell-code" id="cb12"><pre class="sourceCode r code-with-copy"><code class="sourceCode r"><span id="cb12-1"><a href="#cb12-1" aria-hidden="true" tabindex="-1"></a>registrations_clean <span class="sc">|&gt;</span></span>
+<span id="cb12-2"><a href="#cb12-2" aria-hidden="true" tabindex="-1"></a>  <span class="fu">ggplot</span>() <span class="sc">+</span></span>
+<span id="cb12-3"><a href="#cb12-3" aria-hidden="true" tabindex="-1"></a>  <span class="fu">aes</span>(<span class="at">x =</span> have_case_study) <span class="sc">+</span></span>
+<span id="cb12-4"><a href="#cb12-4" aria-hidden="true" tabindex="-1"></a>  <span class="fu">geom_bar</span>()</span></code><button title="Copy to Clipboard" class="code-copy-button"><i class="bi"></i></button></pre></div>
 <div class="cell-output-display">
 <div id="fig-registrations-has-case-study" class="quarto-figure quarto-figure-center anchored">
 <figure class="figure">
